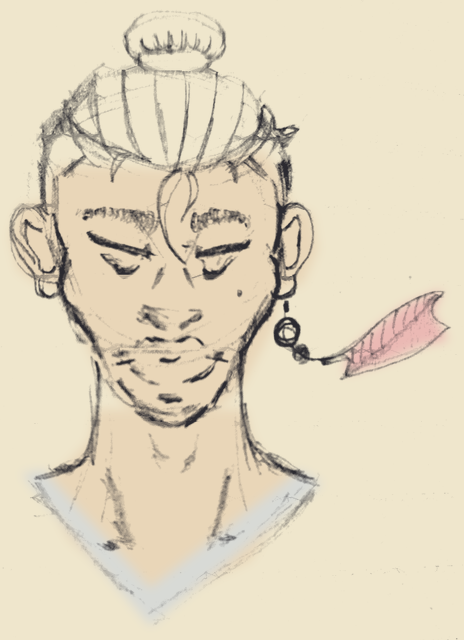
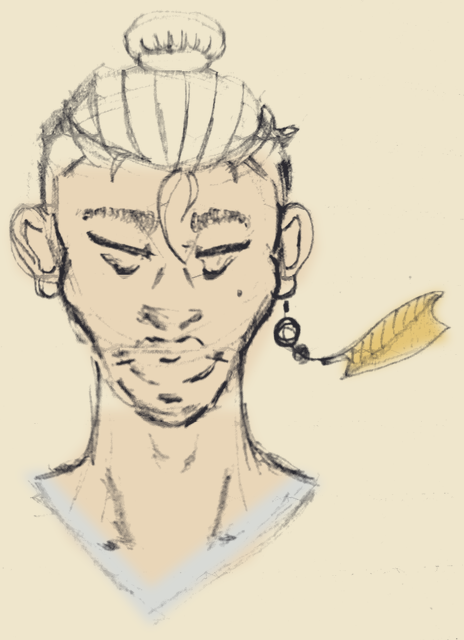
All-Divine F4: the feather's wash is a light warm ochre, not rose
The model's feather is gold with brown bars so that it shows against his cream shirt; the portrait and the model must agree.
#e4c577 under the feather's pencil, as restrained as the other washes (a test holds hue 35-55 degrees, light, not stronger
than twice the skin's). Abarax's picture is made again.

Claude-Session: https://claude.ai/code/session_01LMkMVrCtrU17oFEbS4ipui

Changed region(s): [[0.7543, 0.4375, 0.9655, 0.5938]]

diff --git a/all-divine/tools/portraits/tests/test_committed_portrait.py b/all-divine/tools/portraits/tests/test_committed_portrait.py
@@ -4,6 +4,7 @@ being made again, for a picture painted by hand, and for a change to the tool th
 
 Run: python3 -I -m unittest discover -s tools/portraits/tests   (from all-divine/)
 """
+import json
 import os
 import sys
 import tempfile
@@ -43,6 +44,26 @@ class CommittedPortraitTest(unittest.TestCase):
                          int(np.abs(made.astype(int) - committed.astype(int)).max()),
                          "docs/art/owner/abarax-portrait-sketch-2026-11-14.jpg",
                          "docs/art/owner/abarax-portrait-sketch-2026-11-14.recipe.json"))
+
+
+class FeatherWashTest(unittest.TestCase):
+    """The feather's wash is a light warm ochre (the model's feather is gold with brown bars, and the portrait and the model must
+    agree), as restrained as the other washes: not rose."""
+
+    def test_the_feather_wash_is_a_restrained_warm_ochre(self):
+        import colorsys
+        with open(RECIPE, encoding="utf-8") as handle:
+            recipe = json.load(handle)
+        wash = [t for t in recipe["tints"] if t["name"] == "feather"][0]["colour"]
+        r, g, b = [int(wash[i:i + 2], 16) / 255.0 for i in (1, 3, 5)]
+        hue, saturation, value = colorsys.rgb_to_hsv(r, g, b)
+        self.assertTrue(35.0 <= hue * 360.0 <= 55.0, "the feather's wash %s has hue %.0f degrees: ochre is 35 to 55 (rose is about 5)" % (wash, hue * 360.0))
+        skin = [t for t in recipe["tints"] if t["name"] == "skin"][0]["colour"]
+        sr, sg, sb = [int(skin[i:i + 2], 16) / 255.0 for i in (1, 3, 5)]
+        self.assertLessEqual(saturation, 0.55, "the feather's wash %s is stronger than a restrained wash (saturation %.2f)" % (wash, saturation))
+        self.assertGreater(value, 0.8, "the feather's wash %s is not light" % wash)
+        _hs, skin_saturation, _vs = colorsys.rgb_to_hsv(sr, sg, sb)
+        self.assertLessEqual(saturation, 2.5 * skin_saturation + 0.1, "the feather's wash is far stronger than the skin's")
 
 
 if __name__ == "__main__":
